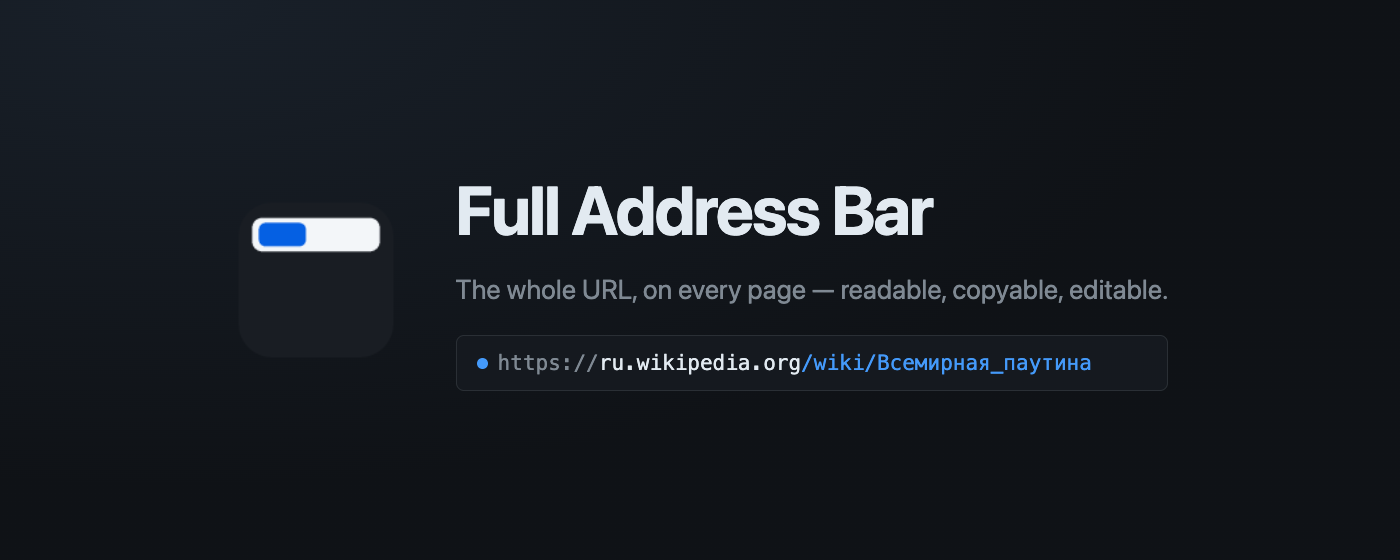
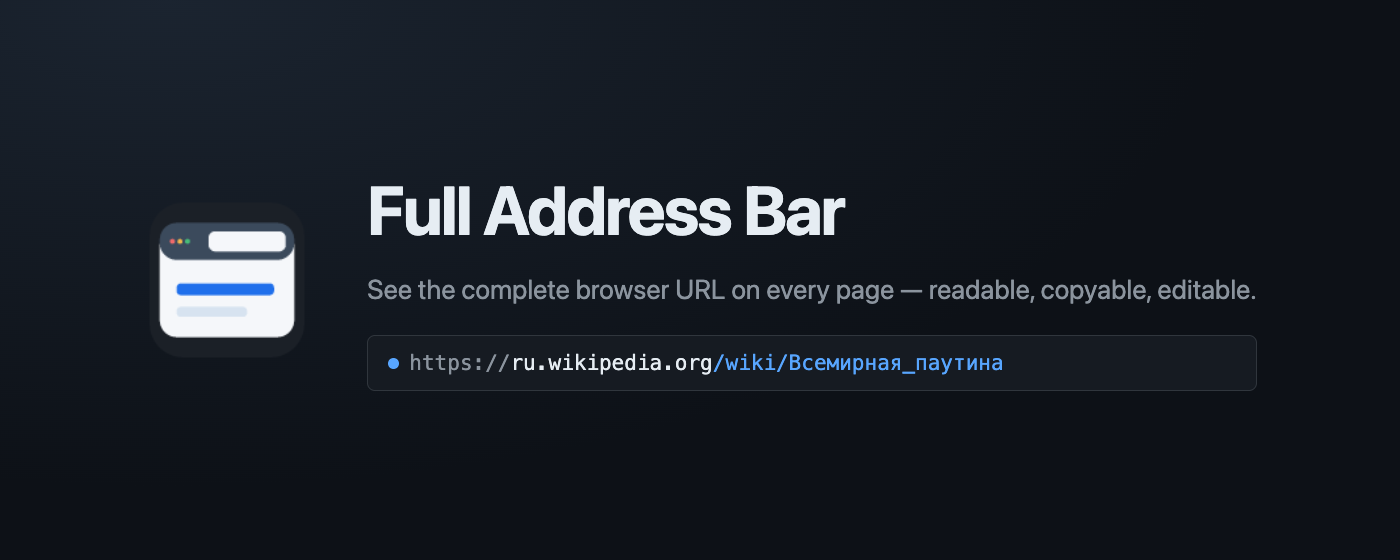
feat(branding): refresh browser URL store artwork

Changed region(s): [[0.0921, 0.3339, 0.6757, 0.6071], [0.2457, 0.4857, 0.8907, 0.5464], [0.2764, 0.6375, 0.7986, 0.6679]]

diff --git a/docs/store-assets/make-tiles.html b/docs/store-assets/make-tiles.html
@@ -25,11 +25,17 @@
         --text: #e6edf3;
         --muted: #8b949e;
         --accent: #58a6ff;
-        --font-ui: -apple-system, BlinkMacSystemFont, "Segoe UI", Helvetica, Arial, sans-serif;
-        --font-mono: ui-monospace, SFMono-Regular, "SF Mono", Menlo, Consolas, monospace;
+        --font-ui:
+          -apple-system, BlinkMacSystemFont, "Segoe UI", Helvetica, Arial,
+          sans-serif;
+        --font-mono:
+          ui-monospace, SFMono-Regular, "SF Mono", Menlo, Consolas, monospace;
       }
-      * { box-sizing: border-box; }
-      html, body {
+      * {
+        box-sizing: border-box;
+      }
+      html,
+      body {
         margin: 0;
         padding: 0;
         width: 100%;
@@ -43,11 +49,17 @@
         display: flex;
         align-items: center;
         justify-content: center;
-        background:
-          radial-gradient(120% 140% at 12% 0%, #1b2430 0%, var(--bg) 62%);
+        background: radial-gradient(
+          120% 140% at 12% 0%,
+          #1b2430 0%,
+          var(--bg) 62%
+        );
       }
 
-      .tile { display: flex; align-items: center; }
+      .tile {
+        display: flex;
+        align-items: center;
+      }
       .bar {
         display: flex;
         align-items: center;
@@ -60,9 +72,15 @@
         white-space: nowrap;
         overflow: hidden;
       }
-      .bar .scheme { color: var(--muted); }
-      .bar .host { color: var(--text); }
-      .bar .rest { color: var(--accent); }
+      .bar .scheme {
+        color: var(--muted);
+      }
+      .bar .host {
+        color: var(--text);
+      }
+      .bar .rest {
+        color: var(--accent);
+      }
       .bar .dot {
         flex: none;
         border-radius: 50%;
@@ -70,21 +88,71 @@
       }
 
       /* ---- small tile: 440x280 ---- */
-      body.small .tile { flex-direction: column; gap: 18px; text-align: center; padding: 0 28px; }
-      body.small img { width: 72px; height: 72px; }
-      body.small h1 { margin: 0; font-size: 27px; letter-spacing: -0.4px; }
-      body.small p { margin: 0; font-size: 14px; color: var(--muted); }
-      body.small .bar { width: 100%; padding: 7px 10px; font-size: 11px; }
-      body.small .bar .dot { width: 6px; height: 6px; }
+      body.small .tile {
+        flex-direction: column;
+        gap: 18px;
+        text-align: center;
+        padding: 0 28px;
+      }
+      body.small img {
+        width: 72px;
+        height: 72px;
+      }
+      body.small h1 {
+        margin: 0;
+        font-size: 27px;
+        letter-spacing: -0.4px;
+      }
+      body.small p {
+        margin: 0;
+        font-size: 14px;
+        color: var(--muted);
+      }
+      body.small .bar {
+        width: 100%;
+        padding: 7px 10px;
+        font-size: 11px;
+      }
+      body.small .bar .dot {
+        width: 6px;
+        height: 6px;
+      }
 
       /* ---- marquee: 1400x560 ---- */
-      body.marquee .tile { gap: 56px; padding: 0 88px; }
-      body.marquee img { width: 168px; height: 168px; flex: none; }
-      body.marquee .copy { display: flex; flex-direction: column; gap: 22px; }
-      body.marquee h1 { margin: 0; font-size: 68px; letter-spacing: -1.6px; }
-      body.marquee p { margin: 0; font-size: 27px; color: var(--muted); line-height: 1.35; }
-      body.marquee .bar { padding: 15px 20px; font-size: 21px; margin-top: 6px; }
-      body.marquee .bar .dot { width: 11px; height: 11px; }
+      body.marquee .tile {
+        gap: 56px;
+        padding: 0 88px;
+      }
+      body.marquee img {
+        width: 168px;
+        height: 168px;
+        flex: none;
+      }
+      body.marquee .copy {
+        display: flex;
+        flex-direction: column;
+        gap: 22px;
+      }
+      body.marquee h1 {
+        margin: 0;
+        font-size: 68px;
+        letter-spacing: -1.6px;
+      }
+      body.marquee p {
+        margin: 0;
+        font-size: 27px;
+        color: var(--muted);
+        line-height: 1.35;
+      }
+      body.marquee .bar {
+        padding: 15px 20px;
+        font-size: 21px;
+        margin-top: 6px;
+      }
+      body.marquee .bar .dot {
+        width: 11px;
+        height: 11px;
+      }
     </style>
   </head>
   <body>
@@ -95,21 +163,28 @@
         <p class="tagline"></p>
         <div class="bar">
           <span class="dot"></span>
-          <span><span class="scheme">https://</span><span class="host">ru.wikipedia.org</span><span class="rest">/wiki/Всемирная_паутина</span></span>
+          <span
+            ><span class="scheme">https://</span
+            ><span class="host">ru.wikipedia.org</span
+            ><span class="rest">/wiki/Всемирная_паутина</span></span
+          >
         </div>
       </div>
     </div>
     <script>
-      const tile = new URLSearchParams(location.search).get('tile') === 'marquee' ? 'marquee' : 'small';
+      const tile =
+        new URLSearchParams(location.search).get("tile") === "marquee"
+          ? "marquee"
+          : "small";
       document.body.className = tile;
-      document.querySelector('.tagline').textContent =
-        tile === 'marquee'
-          ? 'The whole URL, on every page — readable, copyable, editable.'
-          : 'The whole URL, on every page.';
+      document.querySelector(".tagline").textContent =
+        tile === "marquee"
+          ? "See the complete browser URL on every page — readable, copyable, editable."
+          : "See the complete browser URL on every page.";
       // The small tile has no room for a wrapper element around the copy.
-      if (tile === 'small') {
-        const tileEl = document.querySelector('.tile');
-        const copy = document.querySelector('.copy');
+      if (tile === "small") {
+        const tileEl = document.querySelector(".tile");
+        const copy = document.querySelector(".copy");
         while (copy.firstChild) tileEl.appendChild(copy.firstChild);
         copy.remove();
       }
